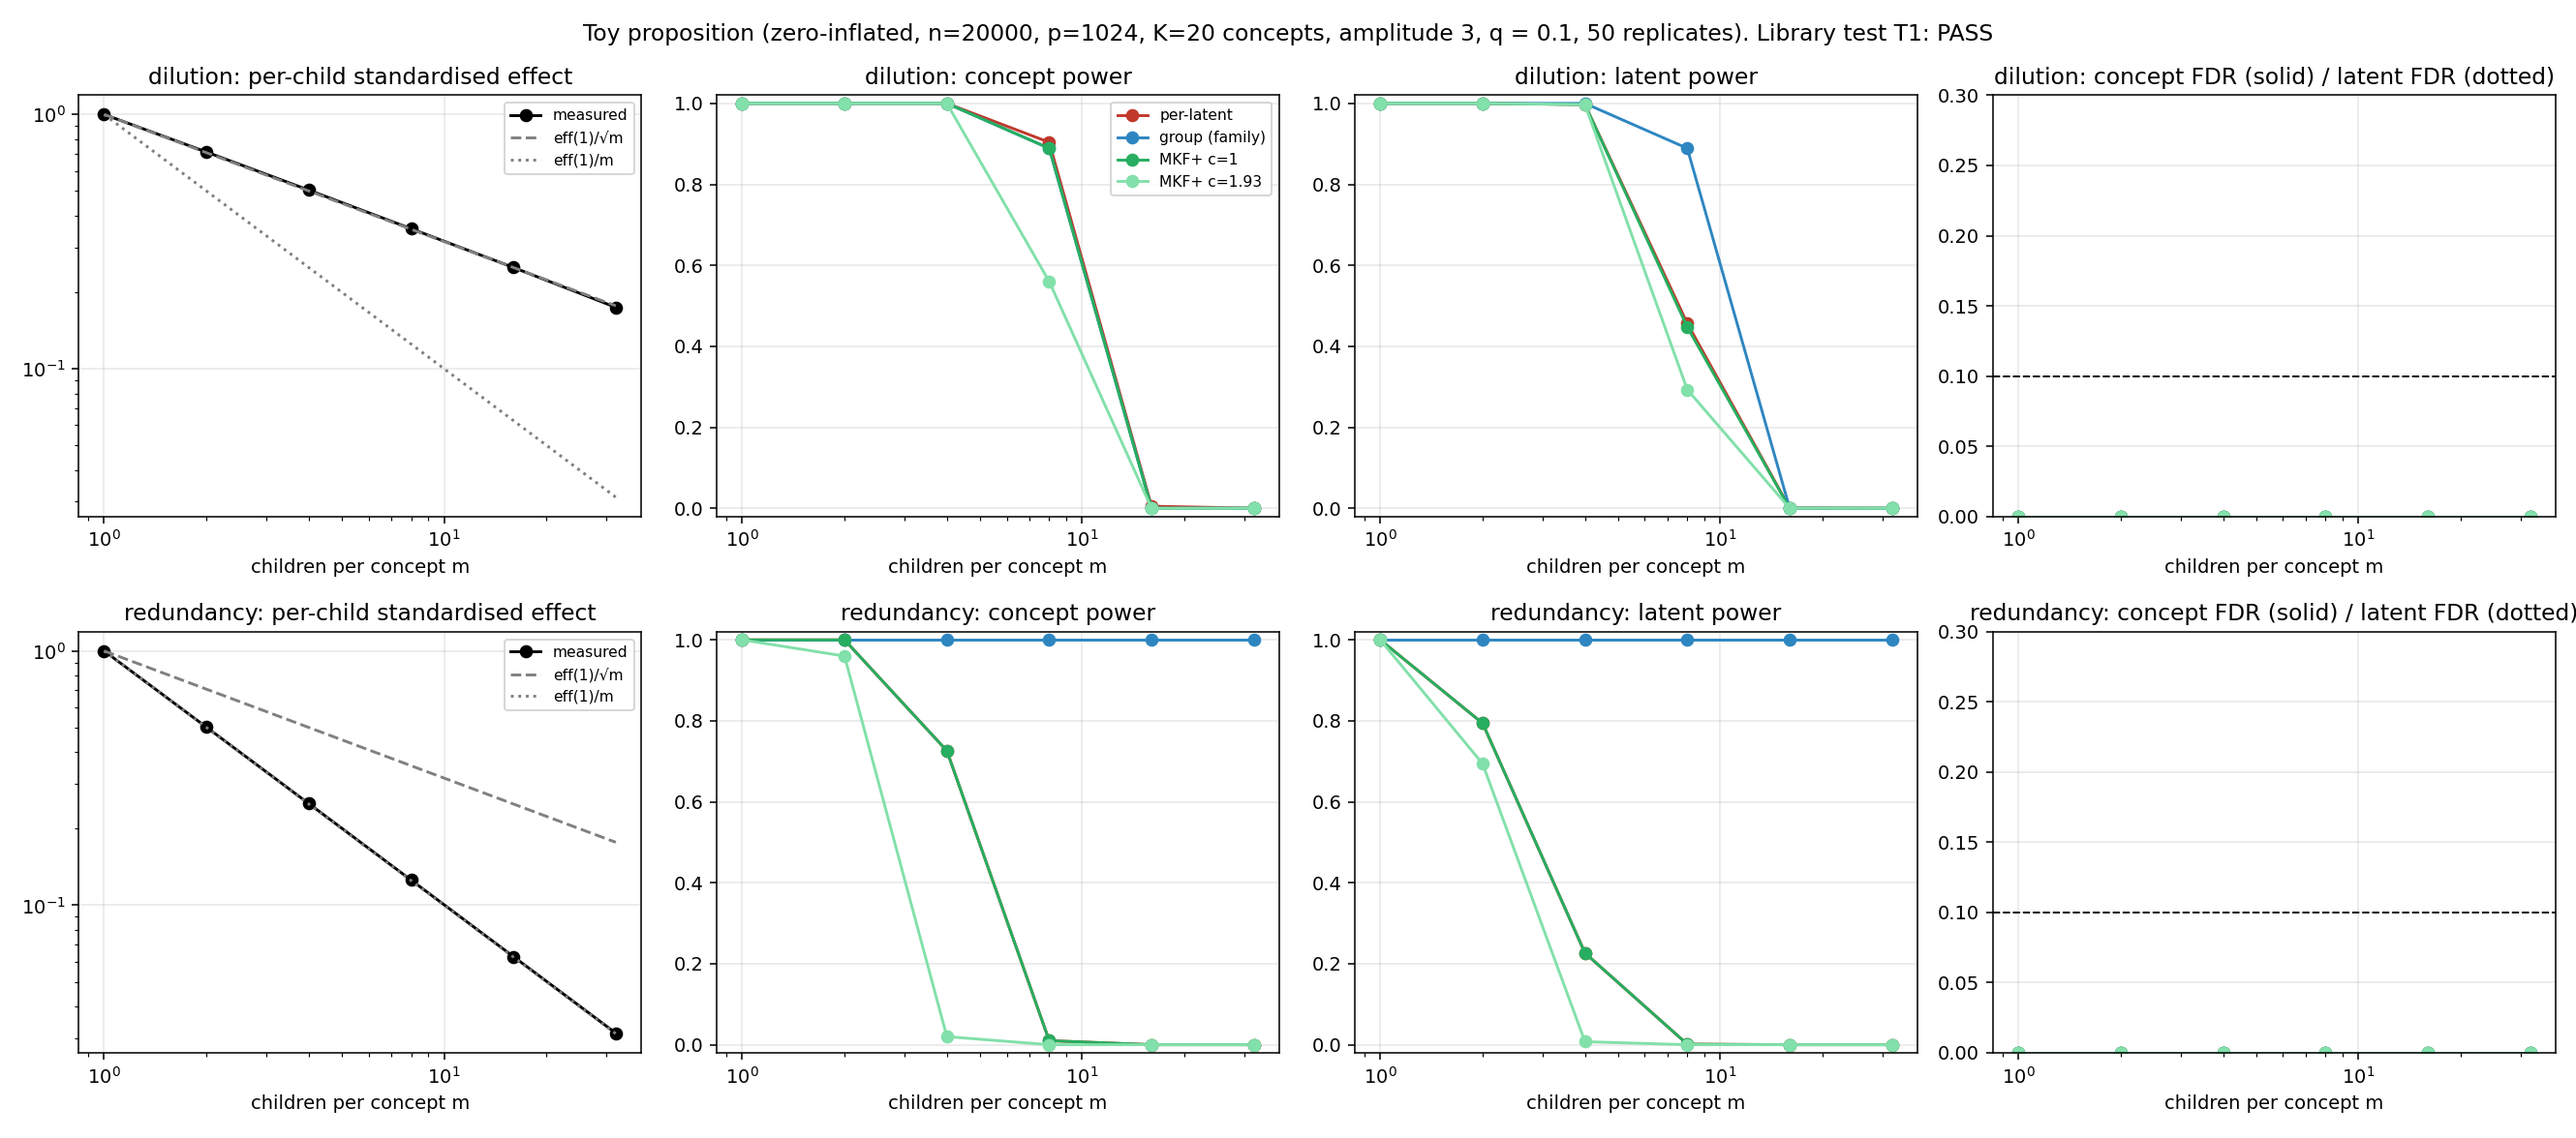
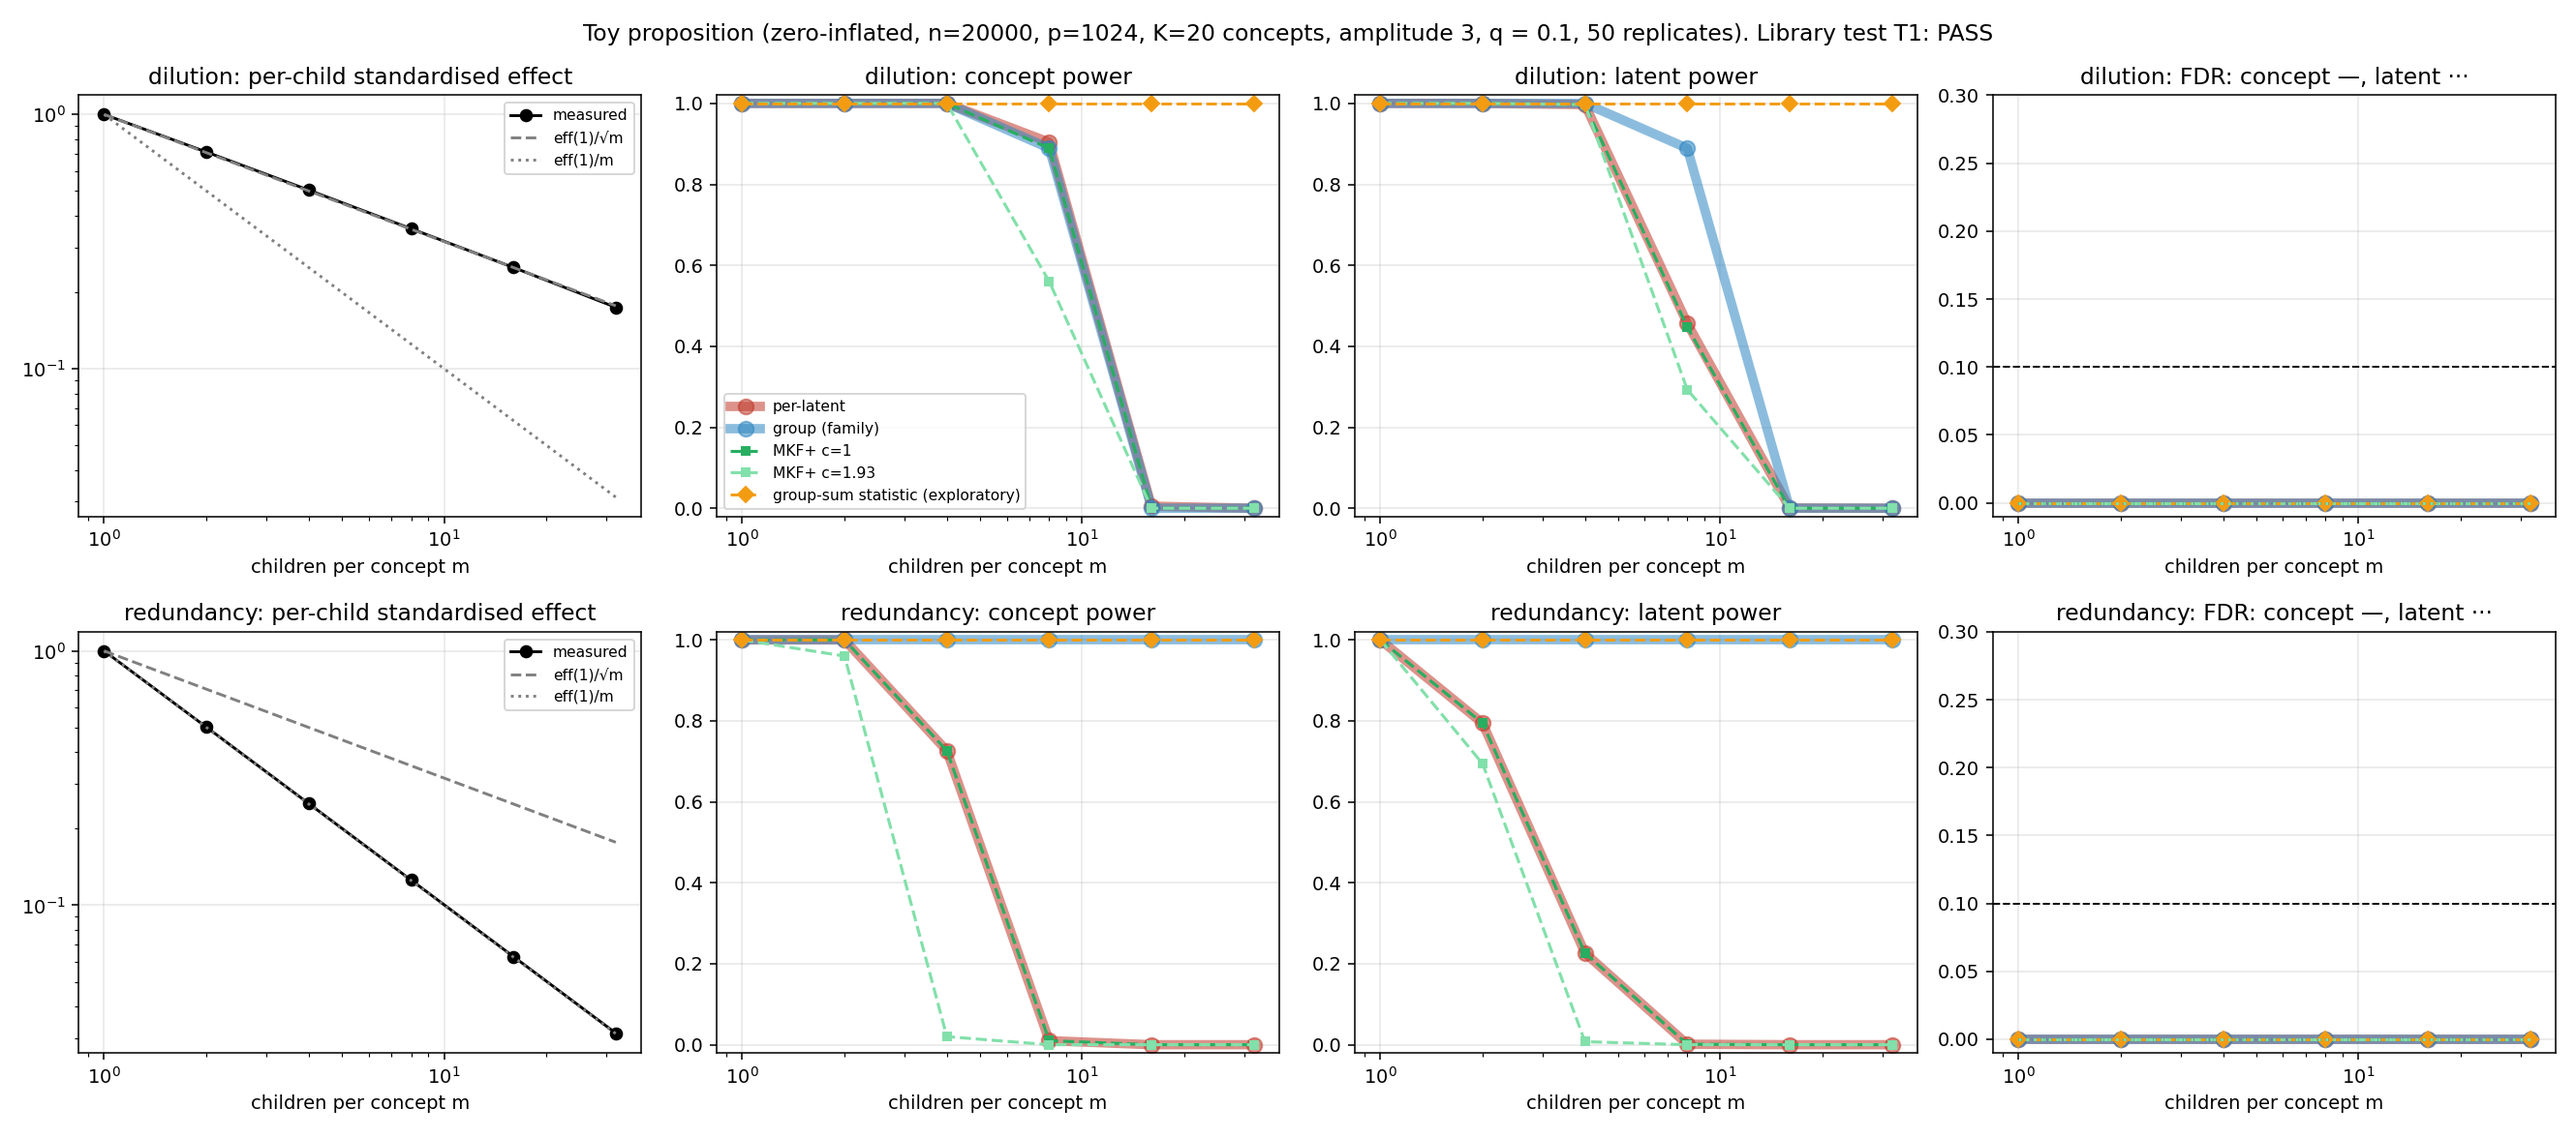
Concept: Step 1 results — toy figure, report, proposition statement
Per-child effect follows m^-1/2 (dilution) and m^-1 (redundancy) to three decimals. Group knockoffs
rescue redundancy (concept power 1.00 to m = 32) but not dilution with the lasso statistic, so the
pre-registered prediction holds for redundancy only. MKF+ is bounded by per-latent power. T1 passes.

diff --git a/concept/src/toy_report.py b/concept/src/toy_report.py
@@ -63,6 +63,14 @@ for design in ("dilution", "redundancy"):
                                   "mean_s_latent": res[k]["info"]["mean_s_lat"], "mean_s_group": res[k]["info"]["mean_s_grp"],
                                   **{f"{arm}/{v}": A(k, arm, v)[:, :, iq].mean(1).tolist() for arm in ARMS
                                      for v in ("con_pow", "lat_pow", "con_fdr", "lat_fdr")}}
+gs_path = rd / "toy_sumstat.json"
+GS = json.loads(gs_path.read_text()) if gs_path.exists() else None
+if GS:
+    for design in ("dilution", "redundancy"):
+        for m in MS:
+            g = GS[f"zinf/{design}/m{m}/planted"]
+            for v in ("con_pow", "lat_pow", "con_fdr", "lat_fdr"):
+                prop[f"{design}/m{m}"][f"group_sum/{v}"] = np.array(g[v])[:, :, iq].mean(1).tolist()
 (rd / "toy_report.json").write_text(json.dumps({"T1": T1, "proposition": prop, "t1_cells": t1}, indent=1, default=float))
 
 # ---- figure ------------------------------------------------------------------
@@ -77,11 +85,16 @@ for r, design in enumerate(("dilution", "redundancy")):
     for c, (v, title) in enumerate((("con_pow", "concept power"), ("lat_pow", "latent power"), ("con_fdr", "concept FDR"))):
         a = ax[r, c + 1]
         for arm in ARMS:
-            a.plot(MS, [prop[f"{design}/m{m}"][f"{arm}/{v}"][ia] for m in MS], "o-", color=COL[arm], label=LAB[arm])
+            thick = arm in ("latent", "group")
+            a.plot(MS, [prop[f"{design}/m{m}"][f"{arm}/{v}"][ia] for m in MS], "o-" if thick else "s--", color=COL[arm],
+                   label=LAB[arm], lw=5 if thick else 1.6, alpha=0.55 if thick else 1.0, ms=8 if thick else 4)
+        if GS:
+            a.plot(MS, [prop[f"{design}/m{m}"][f"group_sum/{v}"][ia] for m in MS], "D--", color="#f39c12",
+                   label="group-sum statistic (exploratory)")
         if v == "con_fdr":
             for arm in ARMS:
                 a.plot(MS, [prop[f"{design}/m{m}"][f"{arm}/lat_fdr"][ia] for m in MS], ":", color=COL[arm])
-            a.axhline(0.1, color="k", ls="--", lw=1); a.set_ylim(0, 0.3); title += " (solid) / latent FDR (dotted)"
+            a.axhline(0.1, color="k", ls="--", lw=1); a.set_ylim(-0.01, 0.3); title = "FDR: concept —, latent ···"
         else:
             a.set_ylim(-0.02, 1.02)
         a.set(xscale="log", title=f"{design}: {title}", xlabel="children per concept m")

diff --git a/concept/results/proposition.md b/concept/results/proposition.md
@@ -1,0 +1,60 @@
+# Proposition — concept dilution and redundancy (Step 1)
+
+Setting. A concept is carried by a group $G$ of $m$ latents. A label depends on the concept through
+$\eta = \beta\, \tilde S$, with $S = \sum_{j \in G} X_j$ and $\tilde S = (S - \mathbb{E}S)/\mathrm{sd}(S)$.
+On the scale of standardised latents $\tilde X_j$ the coefficient of child $j$ is
+$$\beta_j = \beta\,\frac{\mathrm{sd}(X_j)}{\mathrm{sd}(S)} .$$
+The group null $H_G : Y \perp X_G \mid X_{-G}$ is false with an effect, $\beta$, that does not depend on $m$.
+
+**(a) Dilution.** The concept fires with probability $\pi$; when it fires, exactly one child fires (chosen
+uniformly), with magnitude $M$, $\mu_k = \mathbb{E}M^k$. Then
+$$\mathrm{Var}(X_j) = \tfrac{\pi}{m}\mu_2 - \tfrac{\pi^2}{m^2}\mu_1^2,\qquad \mathrm{Var}(S) = \pi\mu_2 - \pi^2\mu_1^2,
+\qquad \beta_j^2 = \frac{\beta^2}{m}\,\bigl(1 + O(\pi)\bigr).$$
+Every child is conditionally non-null, but its standardised effect falls as $m^{-1/2}$ and its Fisher
+information at fixed $n$ as $1/m$. So for fixed $n$ the power of any per-latent conditional test goes to
+$0$ as $m$ grows, while the concept's effect is unchanged. **A group test keeps its power only if its
+statistic pools within the group.** A statistic that penalises each coordinate separately before
+aggregating, e.g. $W_G = \sum_{j\in G}|\hat\beta_j| - \sum_{j\in G}|\hat{\tilde\beta}_j|$ from an $\ell_1$ fit,
+inherits the per-child shrinkage.
+
+**(b) Redundancy.** All $m$ children co-fire as near-duplicates, $X_j = A\,e^{\varepsilon_j}$ with
+$\varepsilon_j \sim N(0,\sigma^2)$. Then $\mathrm{sd}(S) \approx m\,\mathrm{sd}(X_j)$ and $\beta_j \approx \beta/m$.
+As $\sigma \to 0$, each $X_j$ becomes a function of $X_{-j}$, so $H_j : Y \perp X_j \mid X_{-j}$ becomes
+true for every child even though $H_G$ is false. Second-order knockoffs follow suit: as
+$\mathrm{corr}(X_j, X_k) \to 1$ the per-variable MVR $s_j \to 0$, so $\tilde X_j \to X_j$ and $W_j \to 0$.
+At the group level $S$ remains well conditioned and group knockoffs keep power.
+
+**MKF+.** A latent is selected only if it passes every layer, so multilayer power at the latent level is
+bounded by per-latent power. MKF+ inherits both failures.
+
+## Numerical check (`results/toy_report.json`, `fig_c1_toy.png`)
+
+$n = 20{,}000$, $p = 1024$, $K = 20$ planted concepts, $\pi = 0.05$, $q = 0.1$, 50 replicates; Gaussian
+second-order knockoffs (block MVR).
+
+| m | 1 | 2 | 4 | 8 | 16 | 32 |
+|---|---|---|---|---|---|---|
+| dilution: per-child effect (theory $m^{-1/2}$) | 1.000 | 0.712 (0.707) | 0.504 (0.500) | 0.355 (0.354) | 0.250 (0.250) | 0.174 (0.177) |
+| redundancy: per-child effect (theory $m^{-1}$) | 1.000 | 0.501 (0.500) | 0.251 (0.250) | 0.126 (0.125) | 0.063 (0.063) | 0.031 (0.031) |
+| redundancy: mean MVR $s$, per-latent / group | 0.998 / 0.998 | 0.089 / 0.373 | 0.040 / 0.257 | 0.028 / 0.205 | 0.020 / 0.153 | 0.017 / 0.152 |
+
+Concept power at amplitude 3:
+
+| m | 1 | 2 | 4 | 8 | 16 | 32 |
+|---|---|---|---|---|---|---|
+| dilution — per-latent | 1.00 | 1.00 | 1.00 | 0.90 | 0.01 | 0.00 |
+| dilution — group (lasso $W_G$) | 1.00 | 1.00 | 1.00 | 0.89 | 0.00 | 0.00 |
+| dilution — group-sum statistic (exploratory) | 1.00 | 1.00 | 1.00 | 1.00 | 1.00 | 1.00 |
+| redundancy — per-latent | 1.00 | 1.00 | 0.73 | 0.01 | 0.00 | 0.00 |
+| redundancy — group (lasso $W_G$) | 1.00 | 1.00 | 1.00 | 1.00 | 1.00 | 1.00 |
+| MKF+ (c = 1), both mechanisms | identical to per-latent | | | | | |
+
+FDR was 0.000 at both levels in every zero-inflated cell. The library unit test (rule T1, Gaussian data,
+where knockoffs are exactly valid) passed: no BY-significant breach in 288 global-null and 864 planted
+cells.
+
+**Status of the pre-registered prediction** ("per-latent power decays in m; group power is flat"):
+confirmed for redundancy, **refuted for dilution with the pre-registered group statistic**. The
+group-sum statistic restores flat power in both mechanisms, but that comparison is exploratory, and
+favourable by construction because toy labels are functions of $S$. Its confirmatory test is the Step 7
+benchmark (`concept_amendment_2`).
